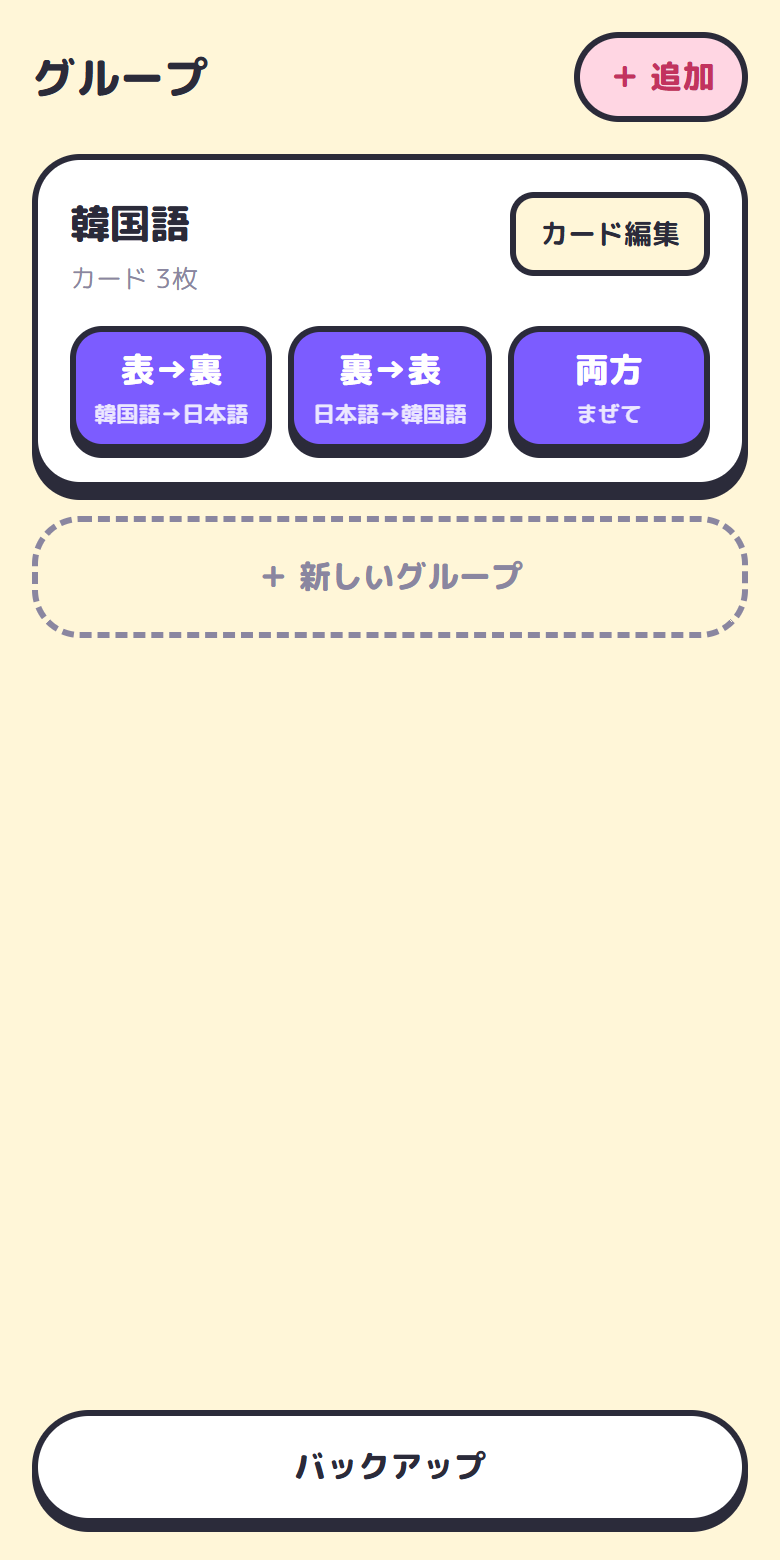
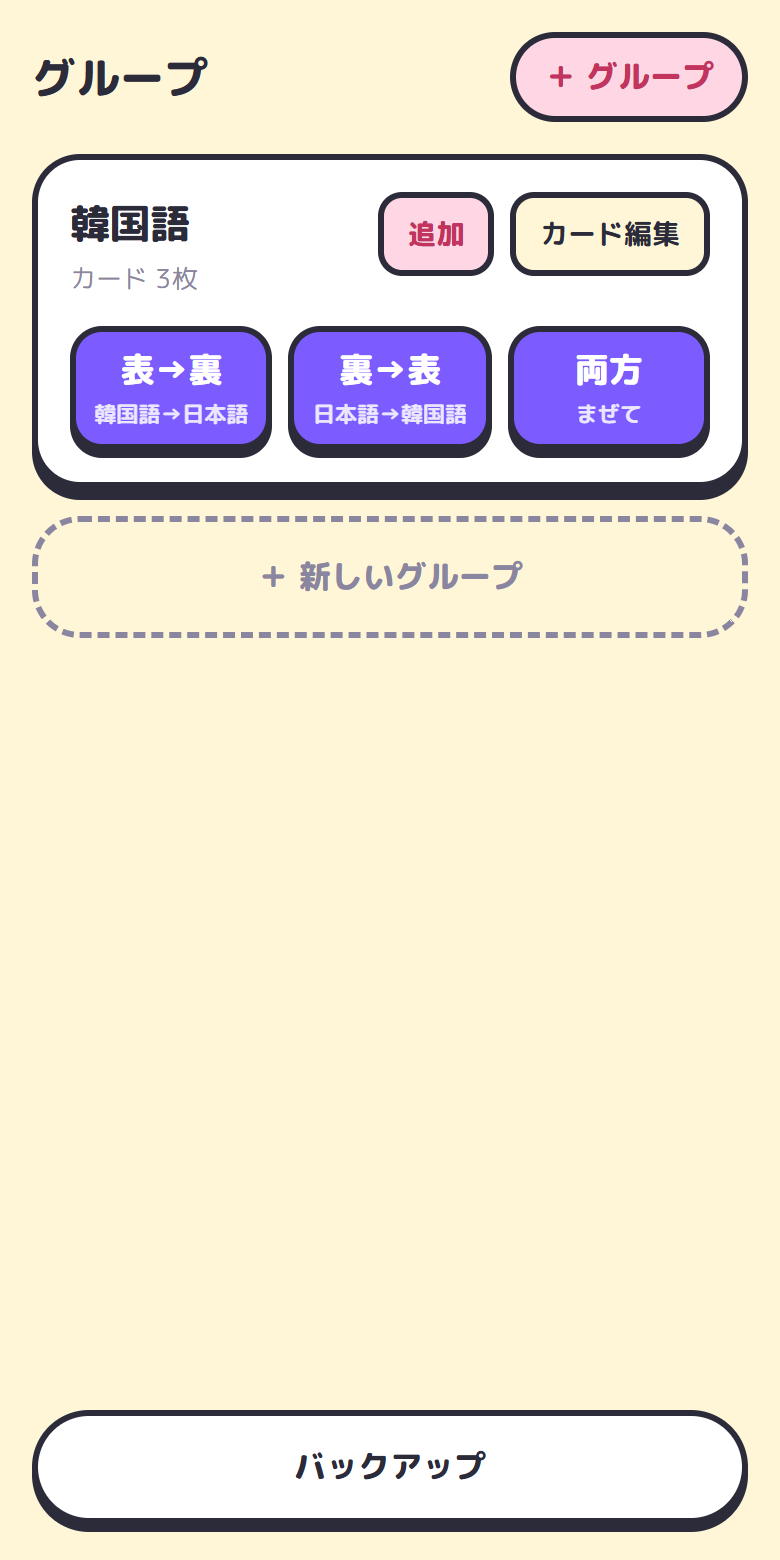
ui: rename add buttons

Changed region(s): [[0.6462, 0.0, 0.9231, 0.0923], [0.4615, 0.1231, 0.6462, 0.1846]]

diff --git a/app.js b/app.js
@@ -27,13 +27,13 @@ function home() {
     const sub = { fb: `${g.frontLabel}→${g.backLabel}`, bf: `${g.backLabel}→${g.frontLabel}`, both: 'まぜて' };
     return `<section class="g">
       <div class="g-head"><div><div class="n">${esc(g.name)}</div><div class="s">カード ${n}枚</div></div>
-        <div class="g-btns"><button class="ghost add-btn" data-act="add-card" data-id="${g.id}">＋ 追加</button>
+        <div class="g-btns"><button class="ghost add-btn" data-act="add-card" data-id="${g.id}">追加</button>
         <button class="ghost" data-act="cards" data-id="${g.id}">カード編集</button></div></div>
       <div class="dirs">${Object.keys(MODES).map(m =>
         `<button class="dir" data-act="study" data-id="${g.id}" data-mode="${m}">${MODES[m]}<small>${esc(sub[m])}</small></button>`).join('')}</div>
     </section>`;
   }).join('');
-  return `<header class="top"><h1>グループ</h1><button class="chip-btn" data-act="new-group">＋ 追加</button></header>
+  return `<header class="top"><h1>グループ</h1><button class="chip-btn" data-act="new-group">＋ グループ</button></header>
   <main class="list">
     ${gs || '<div class="empty">まだグループがありません。<br>「韓国語」などのグループを作って、<br>カードを入れていきましょう。</div>'}
     <button class="add" data-act="new-group">＋ 新しいグループ</button>

diff --git a/sw.js b/sw.js
@@ -1,5 +1,5 @@
 // オフライン対応: キャッシュから即表示し、通信できるときは裏で最新版に更新する
-const CACHE = 'kioku-v2';
+const CACHE = 'kioku-v3';
 const FILES = ['./', 'index.html', 'style.css', 'app.js', 'srs.js', 'session.js', 'db.js',
   'manifest.json', 'icon.svg', 'icon-180.png', 'icon-192.png', 'icon-512.png'];
 
